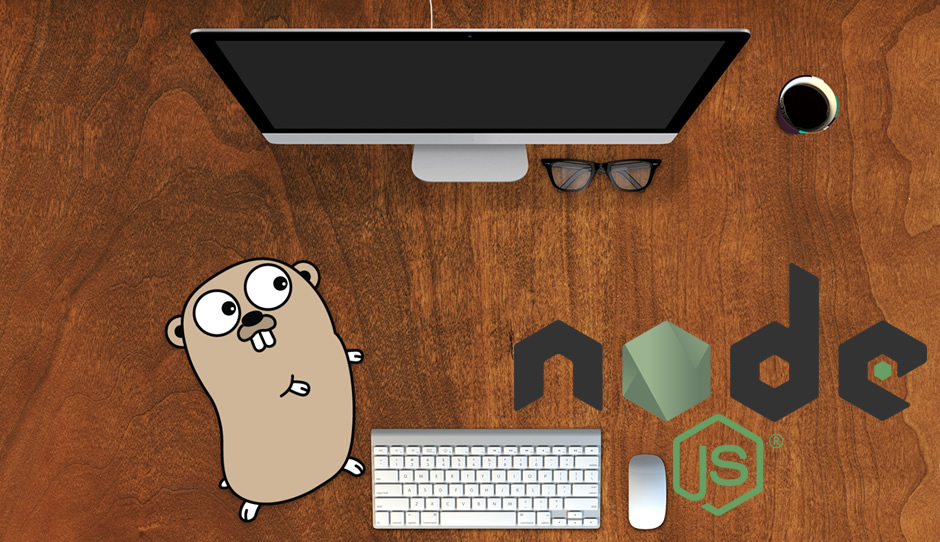
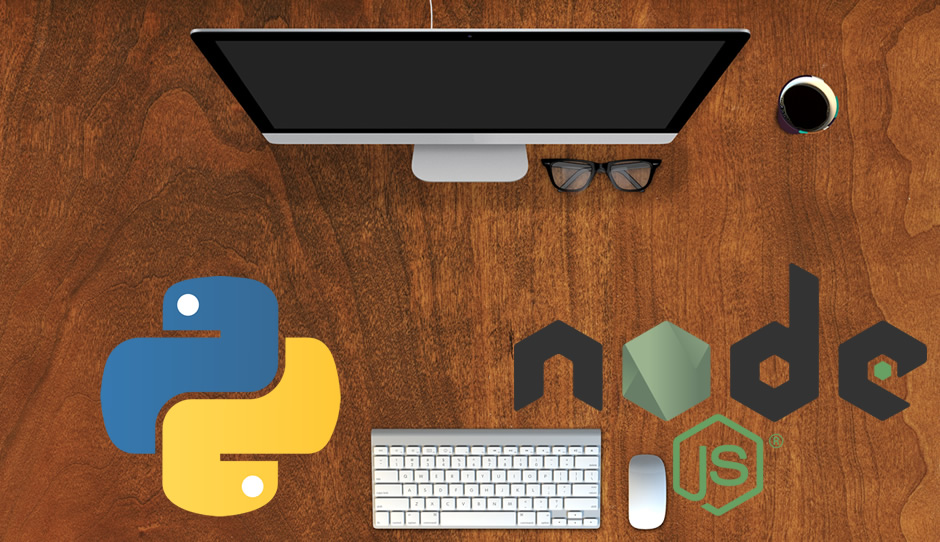
01luisrene
add python

Changed region(s): [[0.0926, 0.4723, 0.4011, 0.9742]]

diff --git a/sobre-mi/index.html b/sobre-mi/index.html
@@ -38,8 +38,8 @@ permalink: /sobre-mi/
 <div class="stacks">
 	<ul class="stack-lista">
 		<li>
-			<a href="https://golang.org/" target="_blank">
-				<img src="/assets/images/template/stack/go.png" alt="GO">
+			<a href="https://www.python.org/" target="_blank">
+				<img src="/assets/images/template/stack/python.png" alt="PYTHON">
 			</a>
 		</li>
 		<li>
